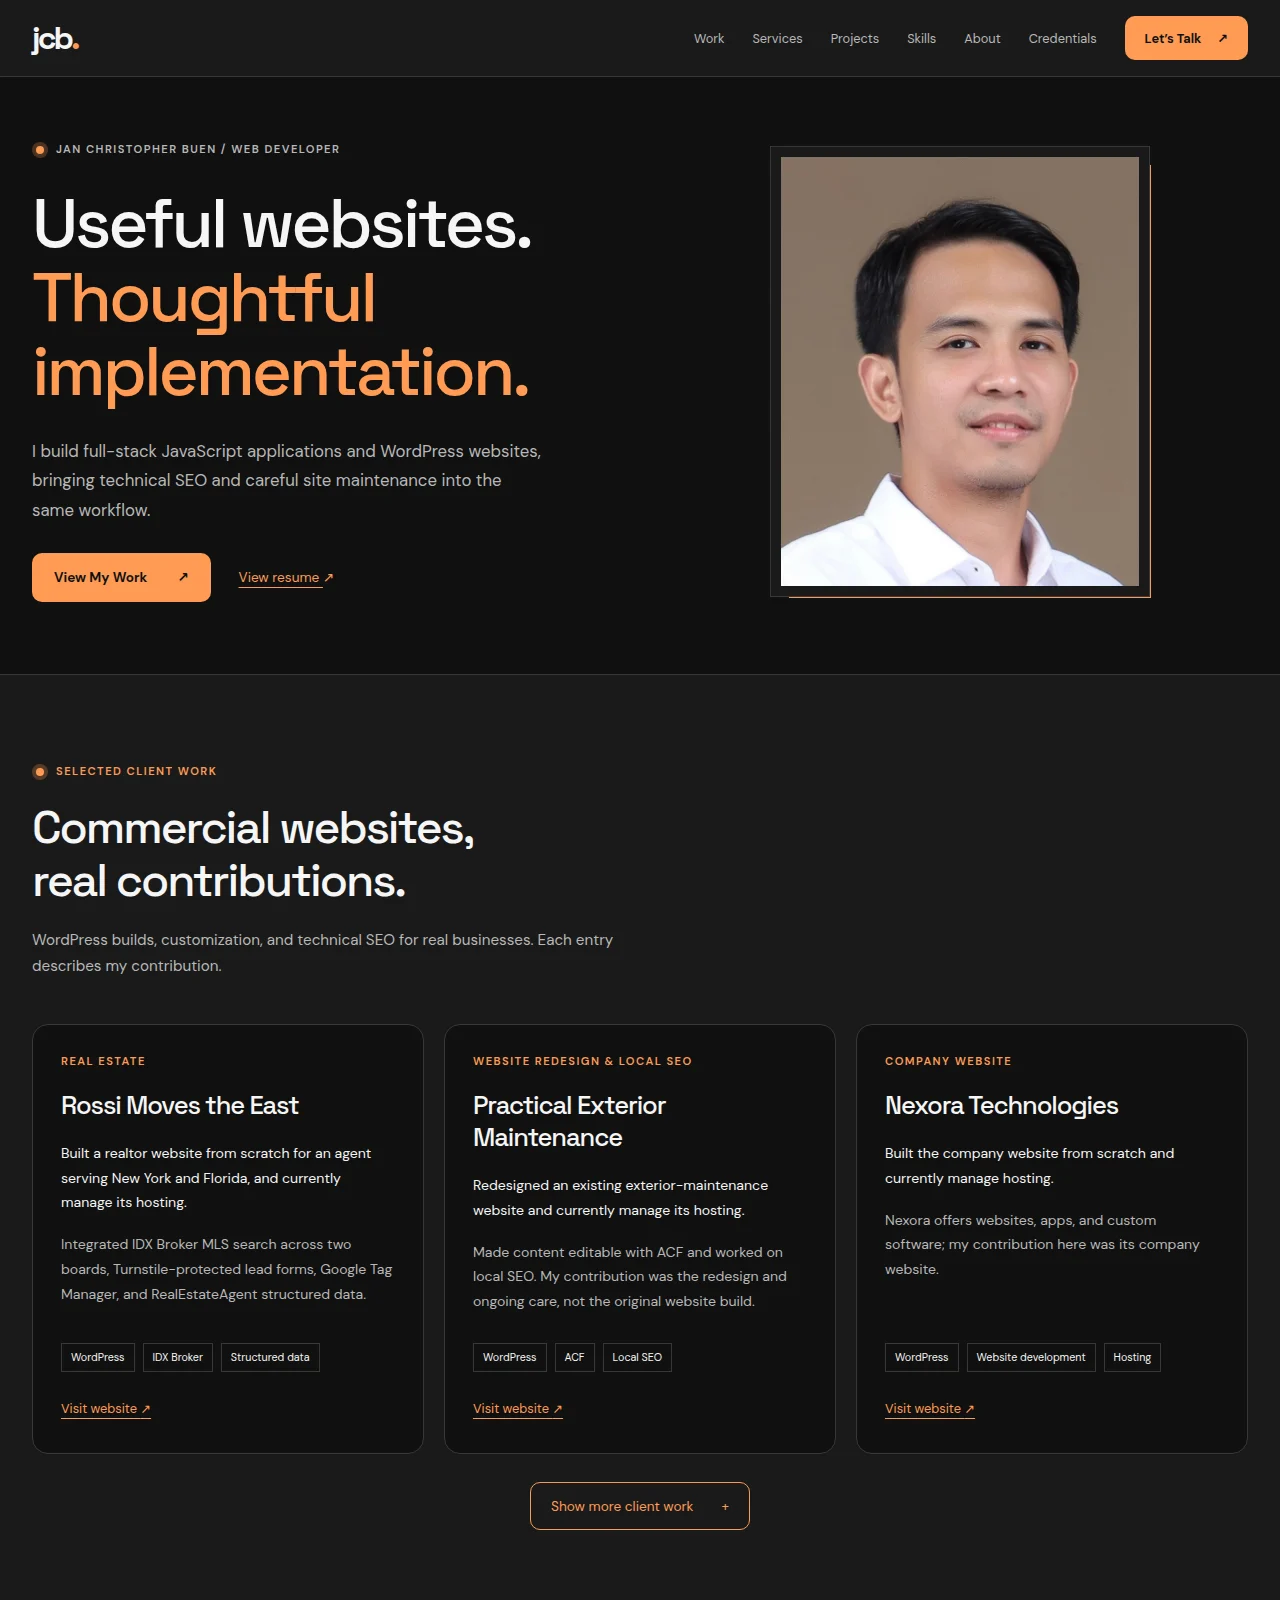
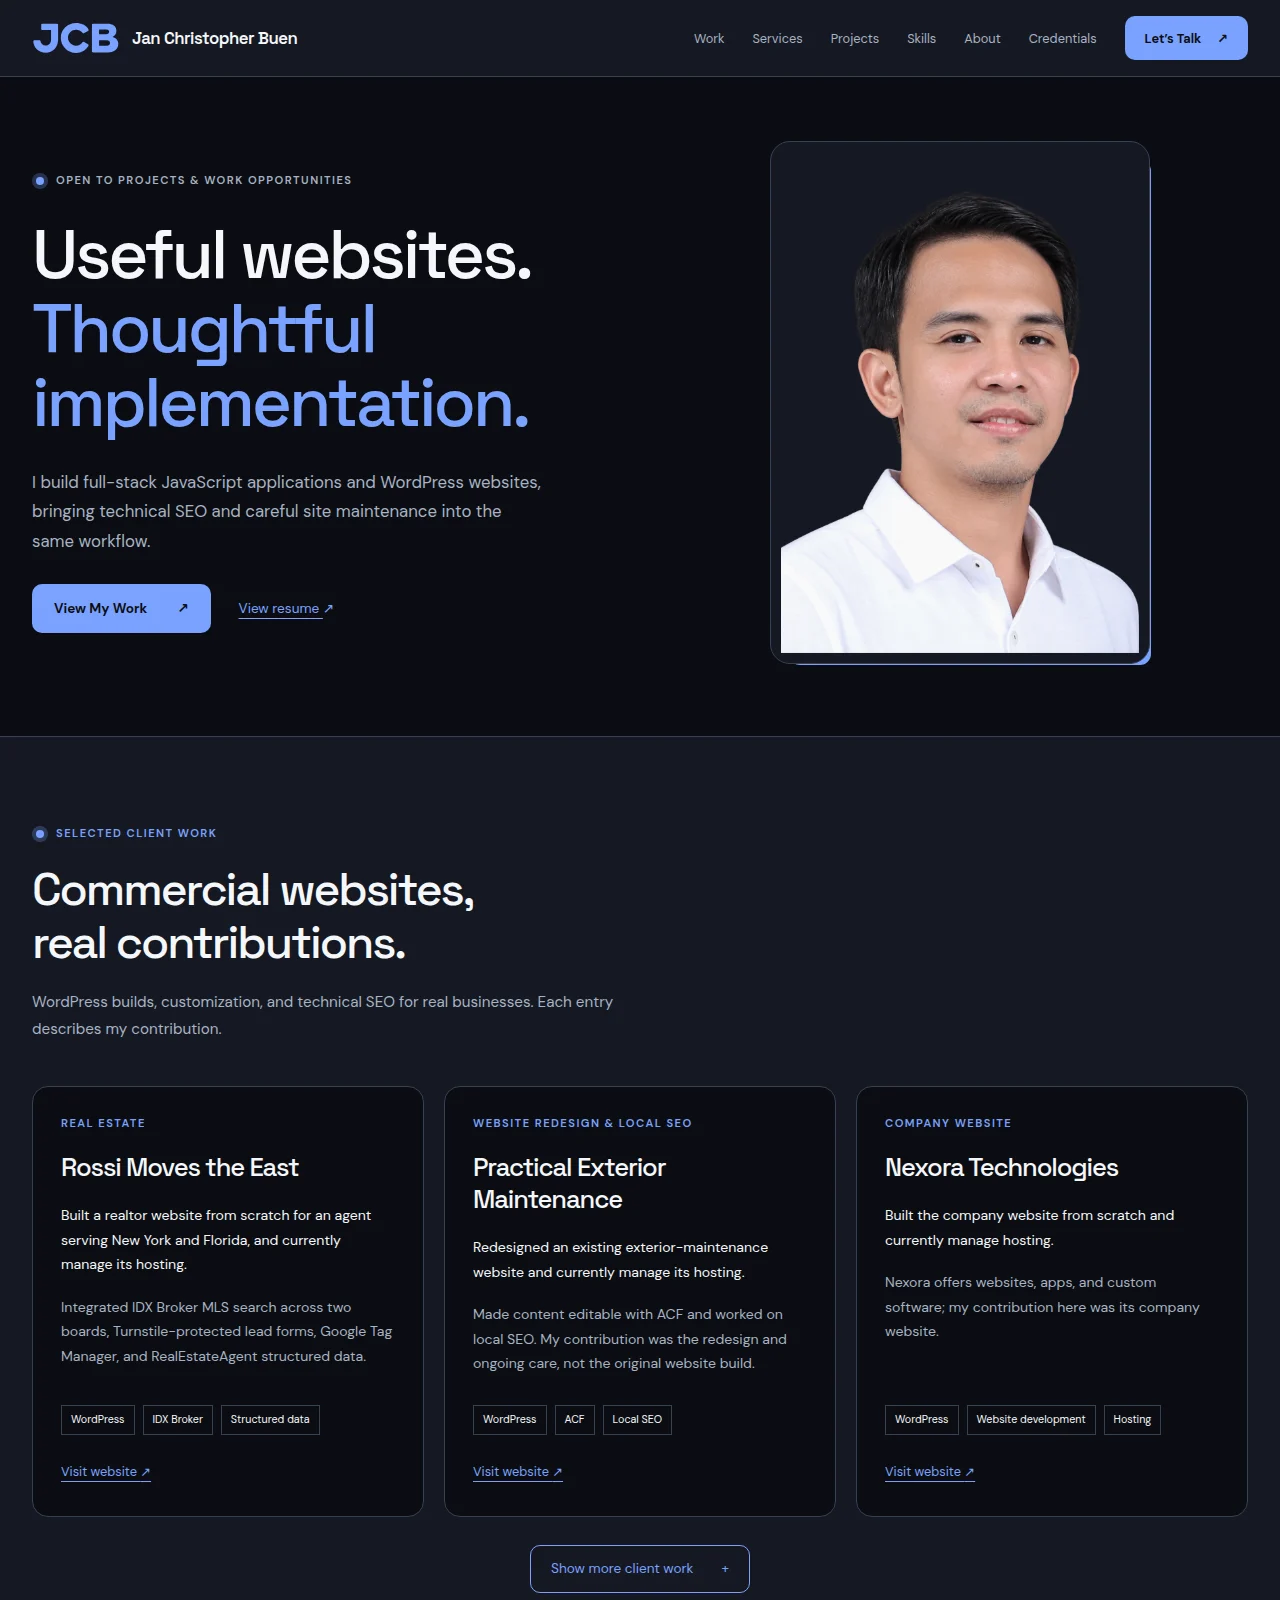
docs(portfolio): refresh branding notes and desktop preview

diff --git a/README.md b/README.md
@@ -17,7 +17,7 @@ I built this website for [The Odin Project’s personal website assignment](http
 - Capsule badges with locally bundled technology logos and readable labels, grouped into frontend, backend/data, WordPress, SEO/analytics, testing, and tools/deployment. The selection reflects my client work and public JavaScript projects.
 - About content and an Experience timeline share equal-width desktop columns, stacked on mobile. About stays visible while scrolling the timeline in the desktop layout. The timeline covers my current web role and previous manufacturing and QA roles; the introduction appears once under About, and the About navigation link covers the combined content.
 - Eight certifications in software engineering, web development, and search, followed by a focused contact panel with email and GitHub actions, plus a footer with section navigation, GitHub, LinkedIn, and email icons, copyright, and a source link.
-- Neutral dark surfaces with warm orange actions, responsive navigation, visible keyboard focus, and a skip link. Smooth slide-up entrances, a portrait wipe reveal, staggered cards, arrow interactions, and timeline highlights respect reduced-motion preferences. Text remains fully opaque throughout motion.
+- Graphite dark surfaces with cobalt actions, responsive navigation, visible keyboard focus, and a skip link. Smooth slide-up entrances, a portrait wipe reveal, staggered cards, arrow interactions, and timeline highlights respect reduced-motion preferences. Text remains fully opaque throughout motion.
 
 The full-stack applications are personal learning projects, separate from the commercial WordPress work. Their free-hosted APIs may take about a minute to wake; provider limits can affect availability. Follow each source link for setup instructions and limitations.
 
@@ -68,7 +68,7 @@ The contact section includes my approved email address and verified GitHub profi
 
 ## Assets and references
 
-The portrait was supplied by Jan Christopher Buen for this portfolio. The monogram favicon and visual identity were created for this portfolio. Project images are actual browser captures of my own applications’ public landing/sign-in pages; they do not include private conversations or account data. Midnight Market’s original illustration is covered by [its repository’s MIT license](https://github.com/jan-christopher-buen/odin-wheres-waldo). Screenshots are optimized to WebP.
+The original portrait was supplied by Jan Christopher Buen for this portfolio. The hero uses a background-removed portrait inside a rounded graphite frame with a subtle cobalt accent. The refined uppercase JCB symbol follows the approved logo reference supplied for this portfolio, paired with the Jan Christopher Buen wordmark. The logo uses outlined SVG paths, with a graphite-on-cobalt tile variant and a matching full JCB favicon. Project images are actual browser captures of my own applications’ public landing/sign-in pages; they do not include private conversations or account data. Midnight Market’s original illustration is covered by [its repository’s MIT license](https://github.com/jan-christopher-buen/odin-wheres-waldo). Screenshots are optimized to WebP.
 
 Technology logos come from [Devicon](https://github.com/devicons/devicon) (MIT) and [Simple Icons](https://github.com/simple-icons/simple-icons) (CC0). Their license texts are included in `public/icons/`. The ACF wordmark comes from the [official Advanced Custom Fields website](https://www.advancedcustomfields.com/). The Linux mark represents my Linux/WSL environment. Monochrome marks use a light variant for the dark background. Google Business Profile and Rank Math logos come from [Google’s product assets](https://www.gstatic.com/images/branding/product/2x/google_my_business_48dp.png) and the [official Rank Math website](https://rankmath.com/), respectively. Certification thumbnails are locally hosted previews of my actual certificates, captured from the linked credential pages or rendered from the original PDFs. All logos are served locally.
 
